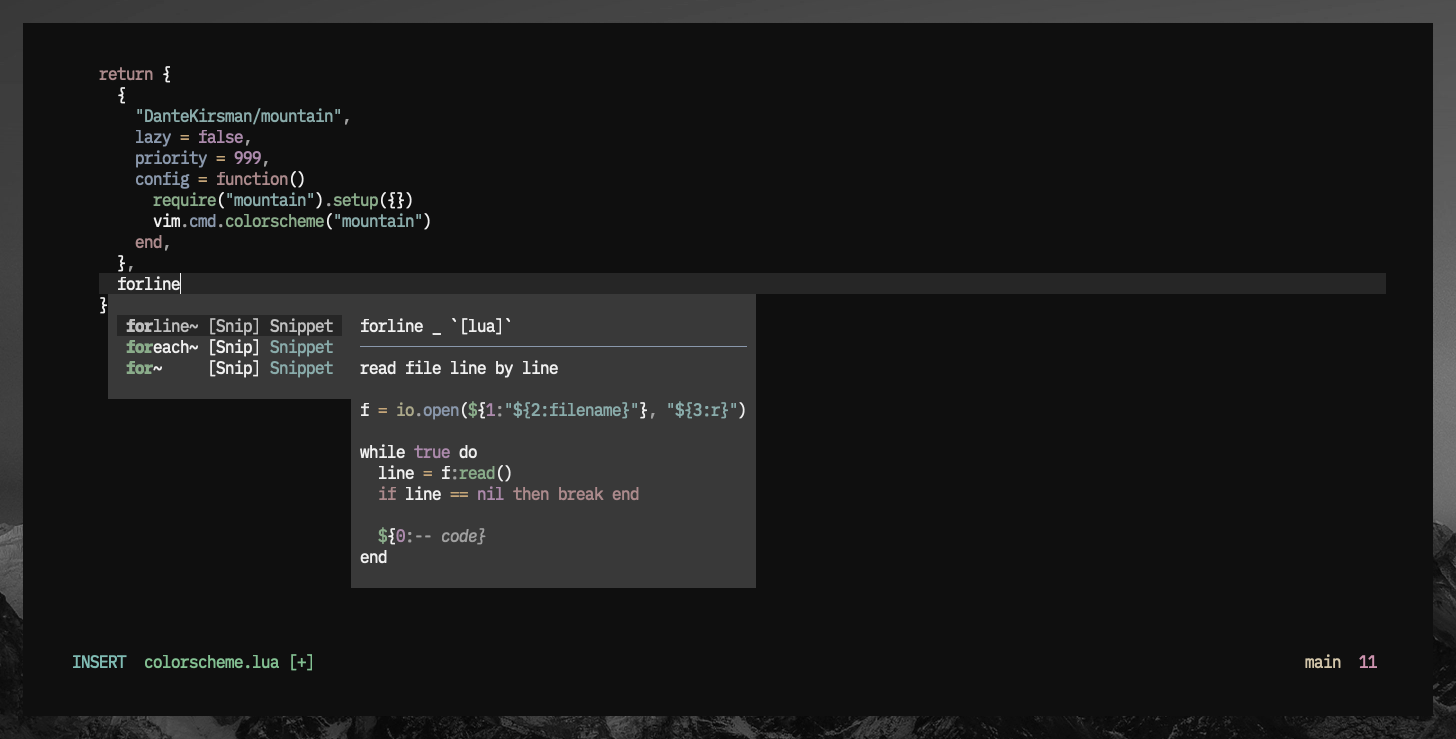
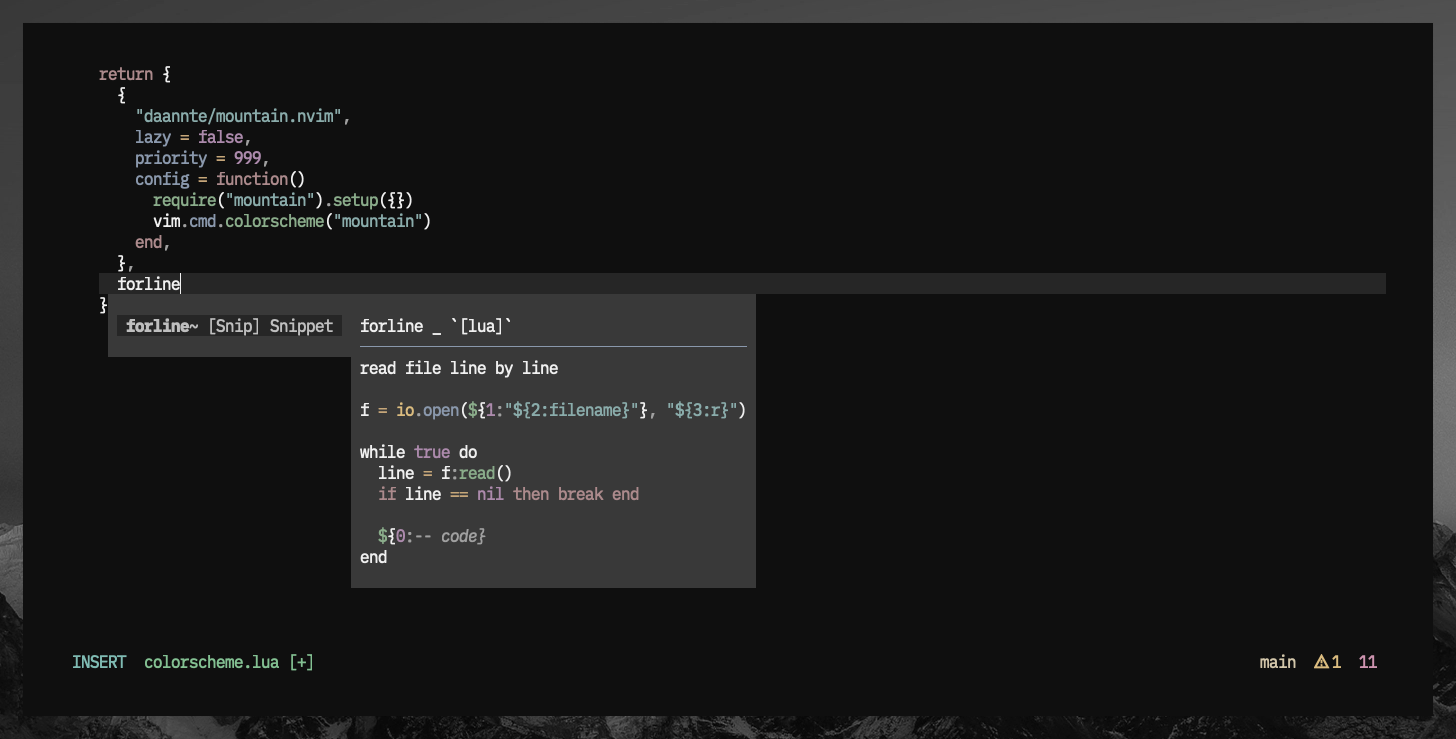
changed the yellow a little bit

Changed region(s): [[0.0618, 0.4357, 0.2473, 0.5602], [0.0927, 0.1245, 0.2163, 0.1867], [0.8654, 0.8714, 0.9272, 0.9026]]

diff --git a/README.md b/README.md
@@ -18,7 +18,7 @@ Install the theme with your preferred package manager, such as
 
 ```lua
 {
-  "DanteKirsman/mountain.nvim",
+  "daannte/mountain.nvim",
   lazy = false,
   priority = 999,
   config = function()
